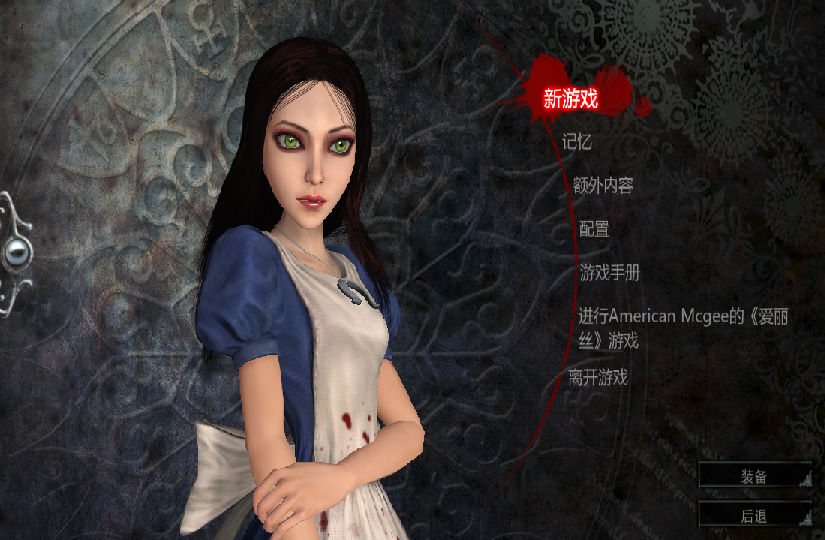
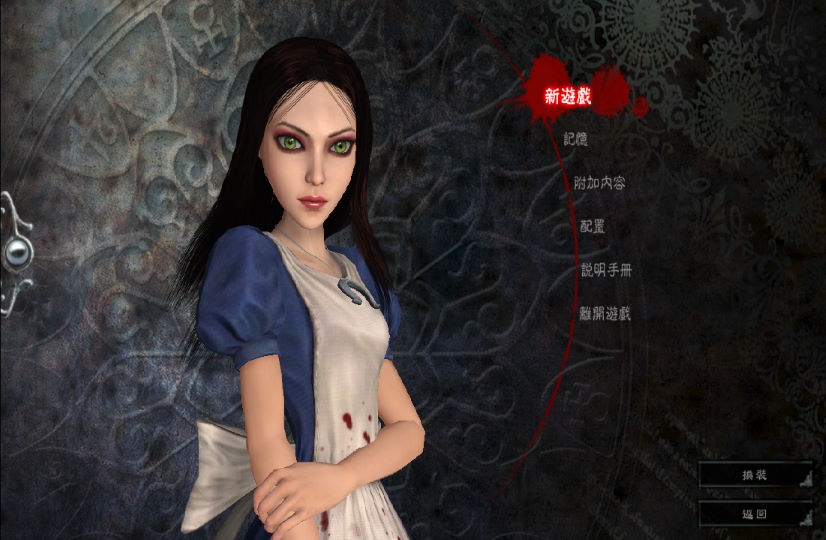
minor update

diff --git a/game/game/intro/ch/c52/alice2.htm b/game/game/intro/ch/c52/alice2.htm
@@ -6,7 +6,7 @@
 </head>
 <body>
 <pre style="font-family: MingLiU, monospace; font-size: 16px;">
-<b>名稱</b>：愛麗絲驚魂記2：瘋狂再臨／愛麗絲：瘋狂回歸 (Alice: Madness Returns，簡中／英文版)
+<b>名稱</b>：愛麗絲驚魂記2：瘋狂再臨／愛麗絲：瘋狂回歸 (Alice: Madness Returns，繁中／簡中／英文版)
 <b>簡介</b>：上海麻辣馬2011年出品的動作冒險遊戲，由EA代理發行 [待補]。
 <IMG SRC="alice2/game1.jpg">
 
@@ -15,6 +15,7 @@
 <b>備註</b>：VirtualBox無法執行，虛擬機請使用VMware
 <b>檔案</b>：alice-keygen.rar = 序號產生器
       crack.rar = 破解檔（會被報毒，請自行斟酌）
+      AliceMR_CHT_MOD_v1.1b.rar = 繁中漢化檔
       簡中漢化檔.rar = 簡中漢化檔
 </pre>
 </body>

diff --git a/game/game/welcome.htm b/game/game/welcome.htm
@@ -33,7 +33,7 @@
 <li>最後準備撰寫的遊戲攻略：大富翁4、仙劍3、軒轅劍3 Steam版、暗黑破壞神1,2、大航海時代2,外傳、紅樓夢(智冠)
 <li>年輕時玩過卻沒空破關的遊戲：黑暗王座2、柏德之門2、三國趙雲傳、新神雕俠侶、太空戰士7
 <li>想玩卻一直沒空玩的遊戲：英雄無敵系列、幻想三國誌系列、英傑傳系列、魔獸爭霸系列、撼天神塔系列、（創世紀、巫術、魔法門三大經典RPG）
-<li>待補光碟版遊戲資訊（遊戲檔結構和磁片版不同）：三國志武戰爭霸2、格鬥悍將。
+<li>待補光碟版遊戲資訊（遊戲檔結構和磁片版不同）：三國志武將爭霸2、格鬥悍將。
 </ol>
 
 <div style="padding: 2px; background: #7FFF7F; color: red;">

diff --git a/game/game/waitcd.htm b/game/game/waitcd.htm
@@ -85,7 +85,6 @@
   <li>總統萬歲3／海島大亨3／天堂島3 絕對強勢資料片（或黃金版），Haemimont／新世紀，2010
   <li>總統萬歲4 主程式+摩登時代資料片（或黃金版），Haemimont／英特衛，2011
   <li>大航海家4：王朝崛起資料片，英特衛，2011
-  <li>愛麗絲驚魂記：瘋狂再臨，2011，EA
 </ol>
 
 <p>二、簡中光碟（若發現有繁中版或無光碟版者，請再通知青衫修正）

diff --git a/game/game/list-1.htm b/game/game/list-1.htm
@@ -12728,7 +12728,7 @@
  <td>
  <td>2011
  <td>麻辣馬 (EA)
- <td>1DVD (4988)
+ <td>1DVD
  <td>Windows
  <td>SGCD0616
 

diff --git a/game/game/cgame52.htm b/game/game/cgame52.htm
@@ -1100,7 +1100,7 @@
  <td>
  <td>2011
  <td>麻辣馬 (EA)
- <td>1DVD (4988)
+ <td>1DVD
  <td>Windows
  <td>SGCD0616
 
